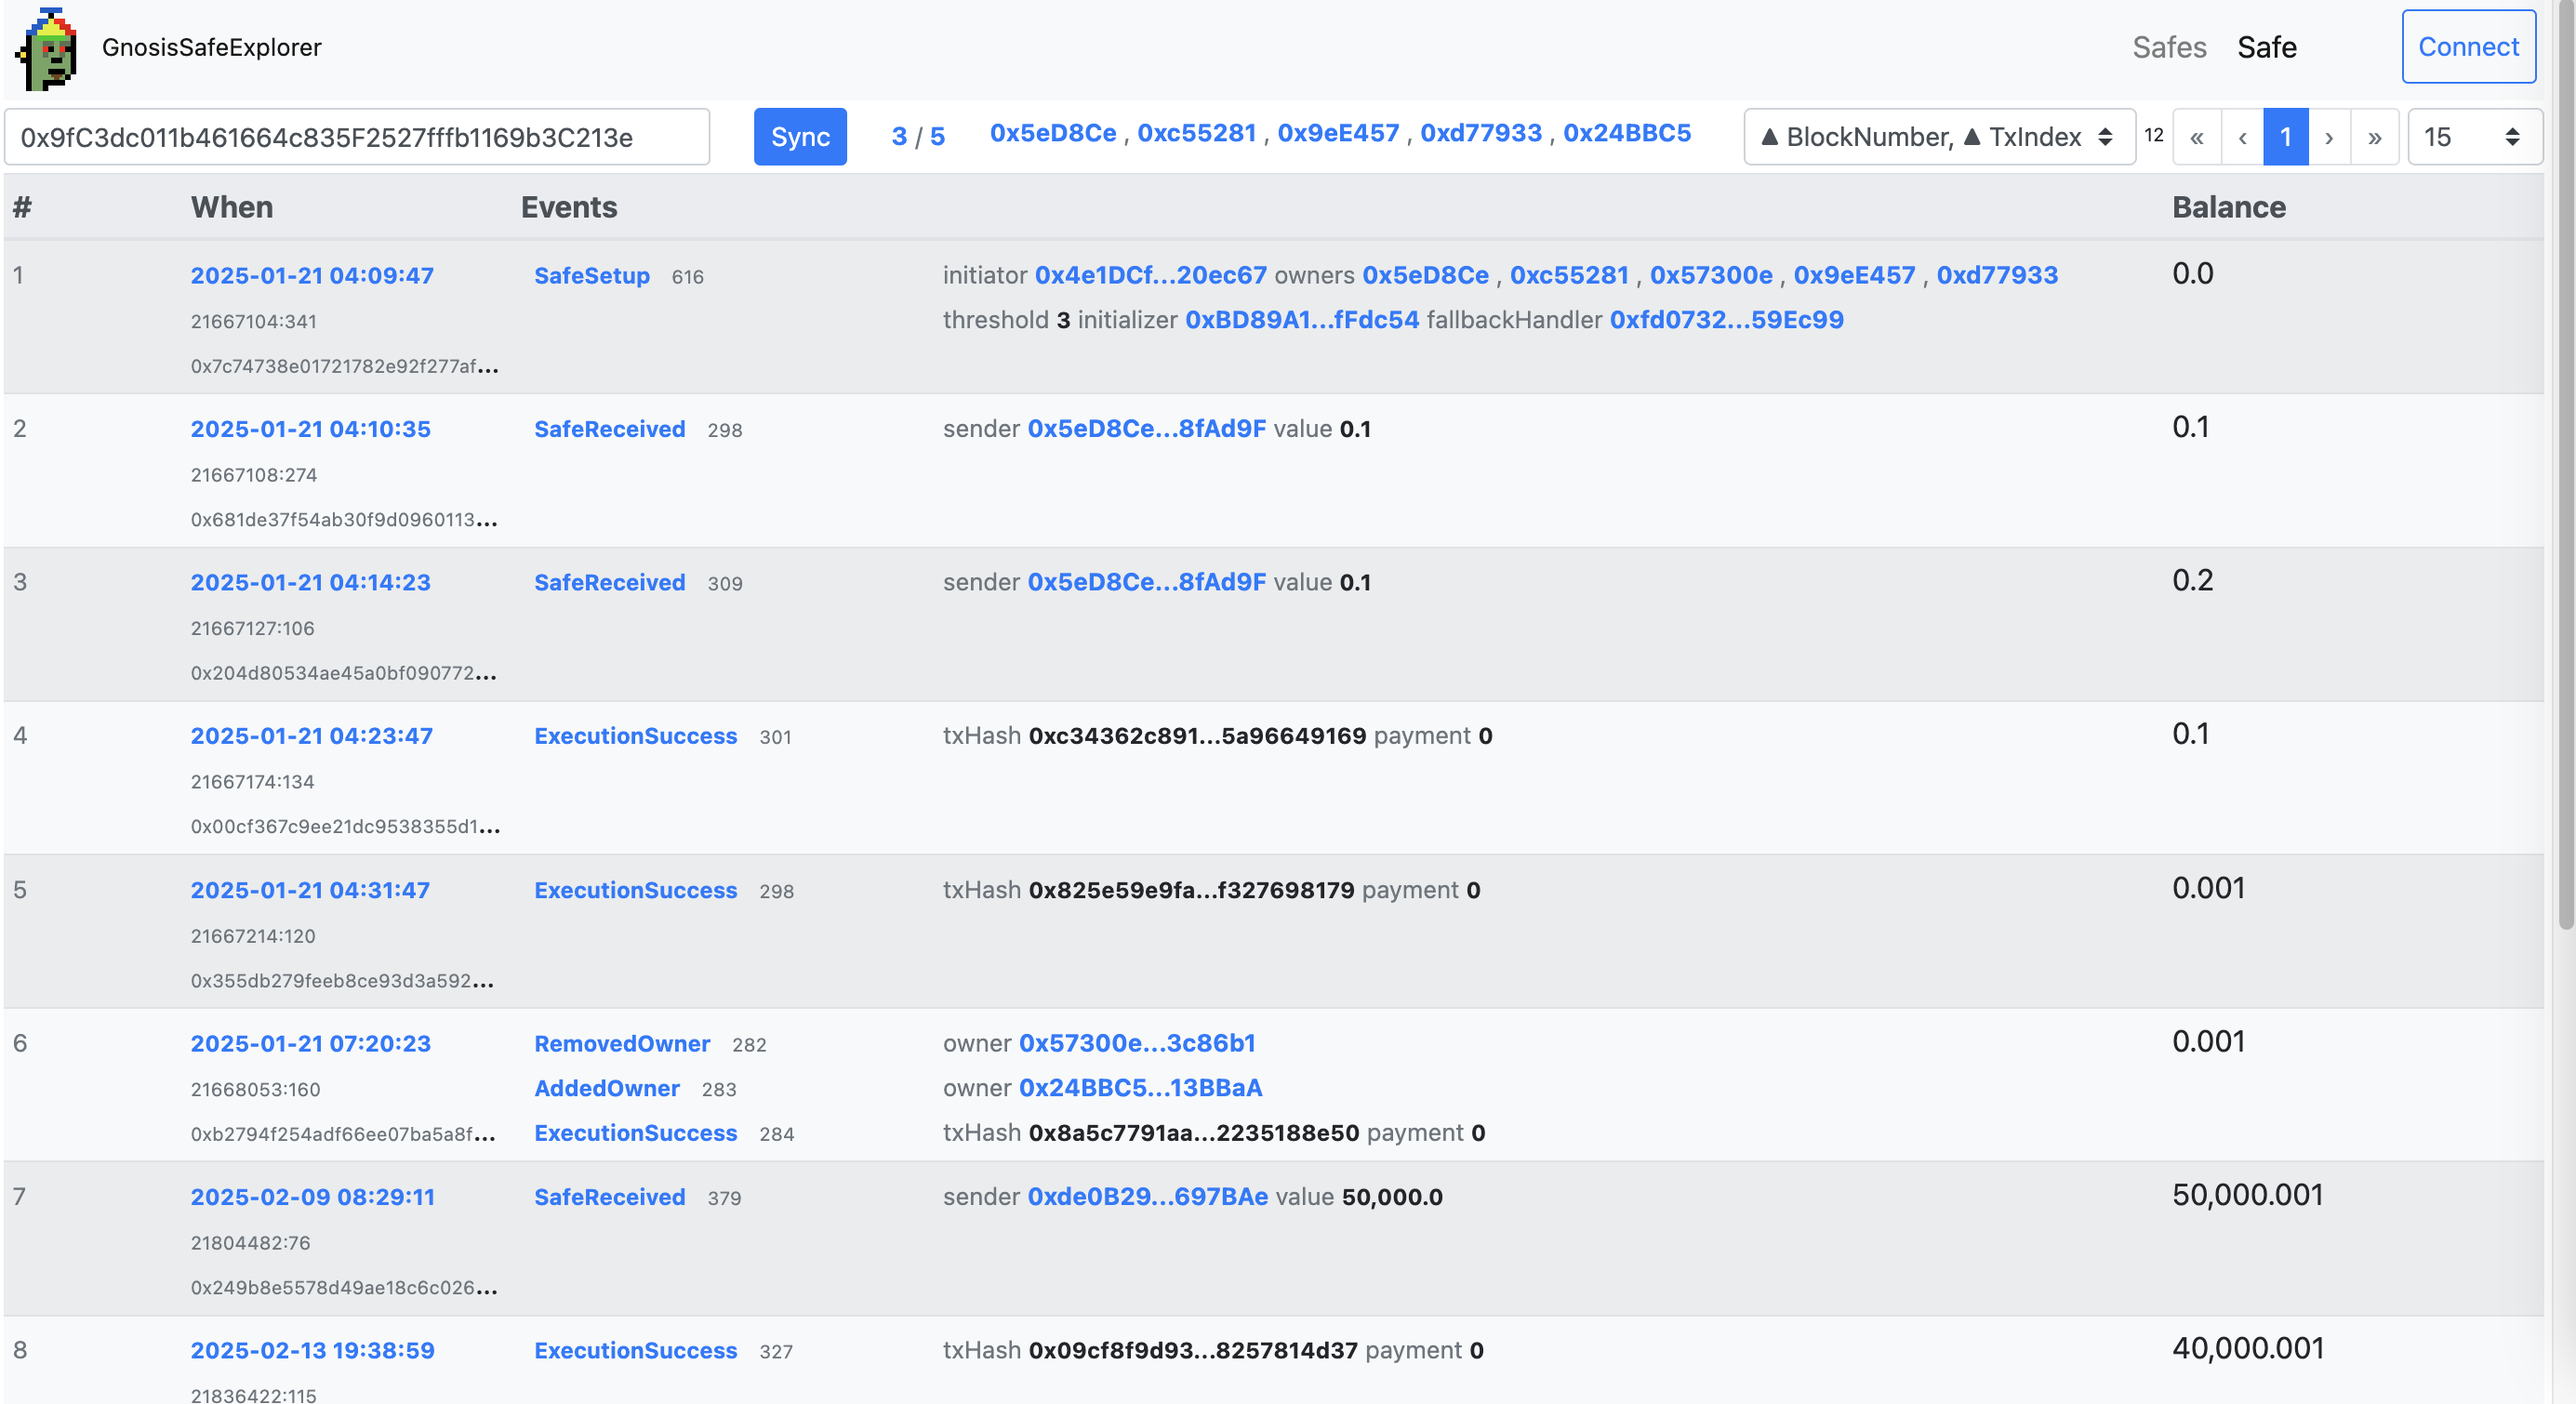
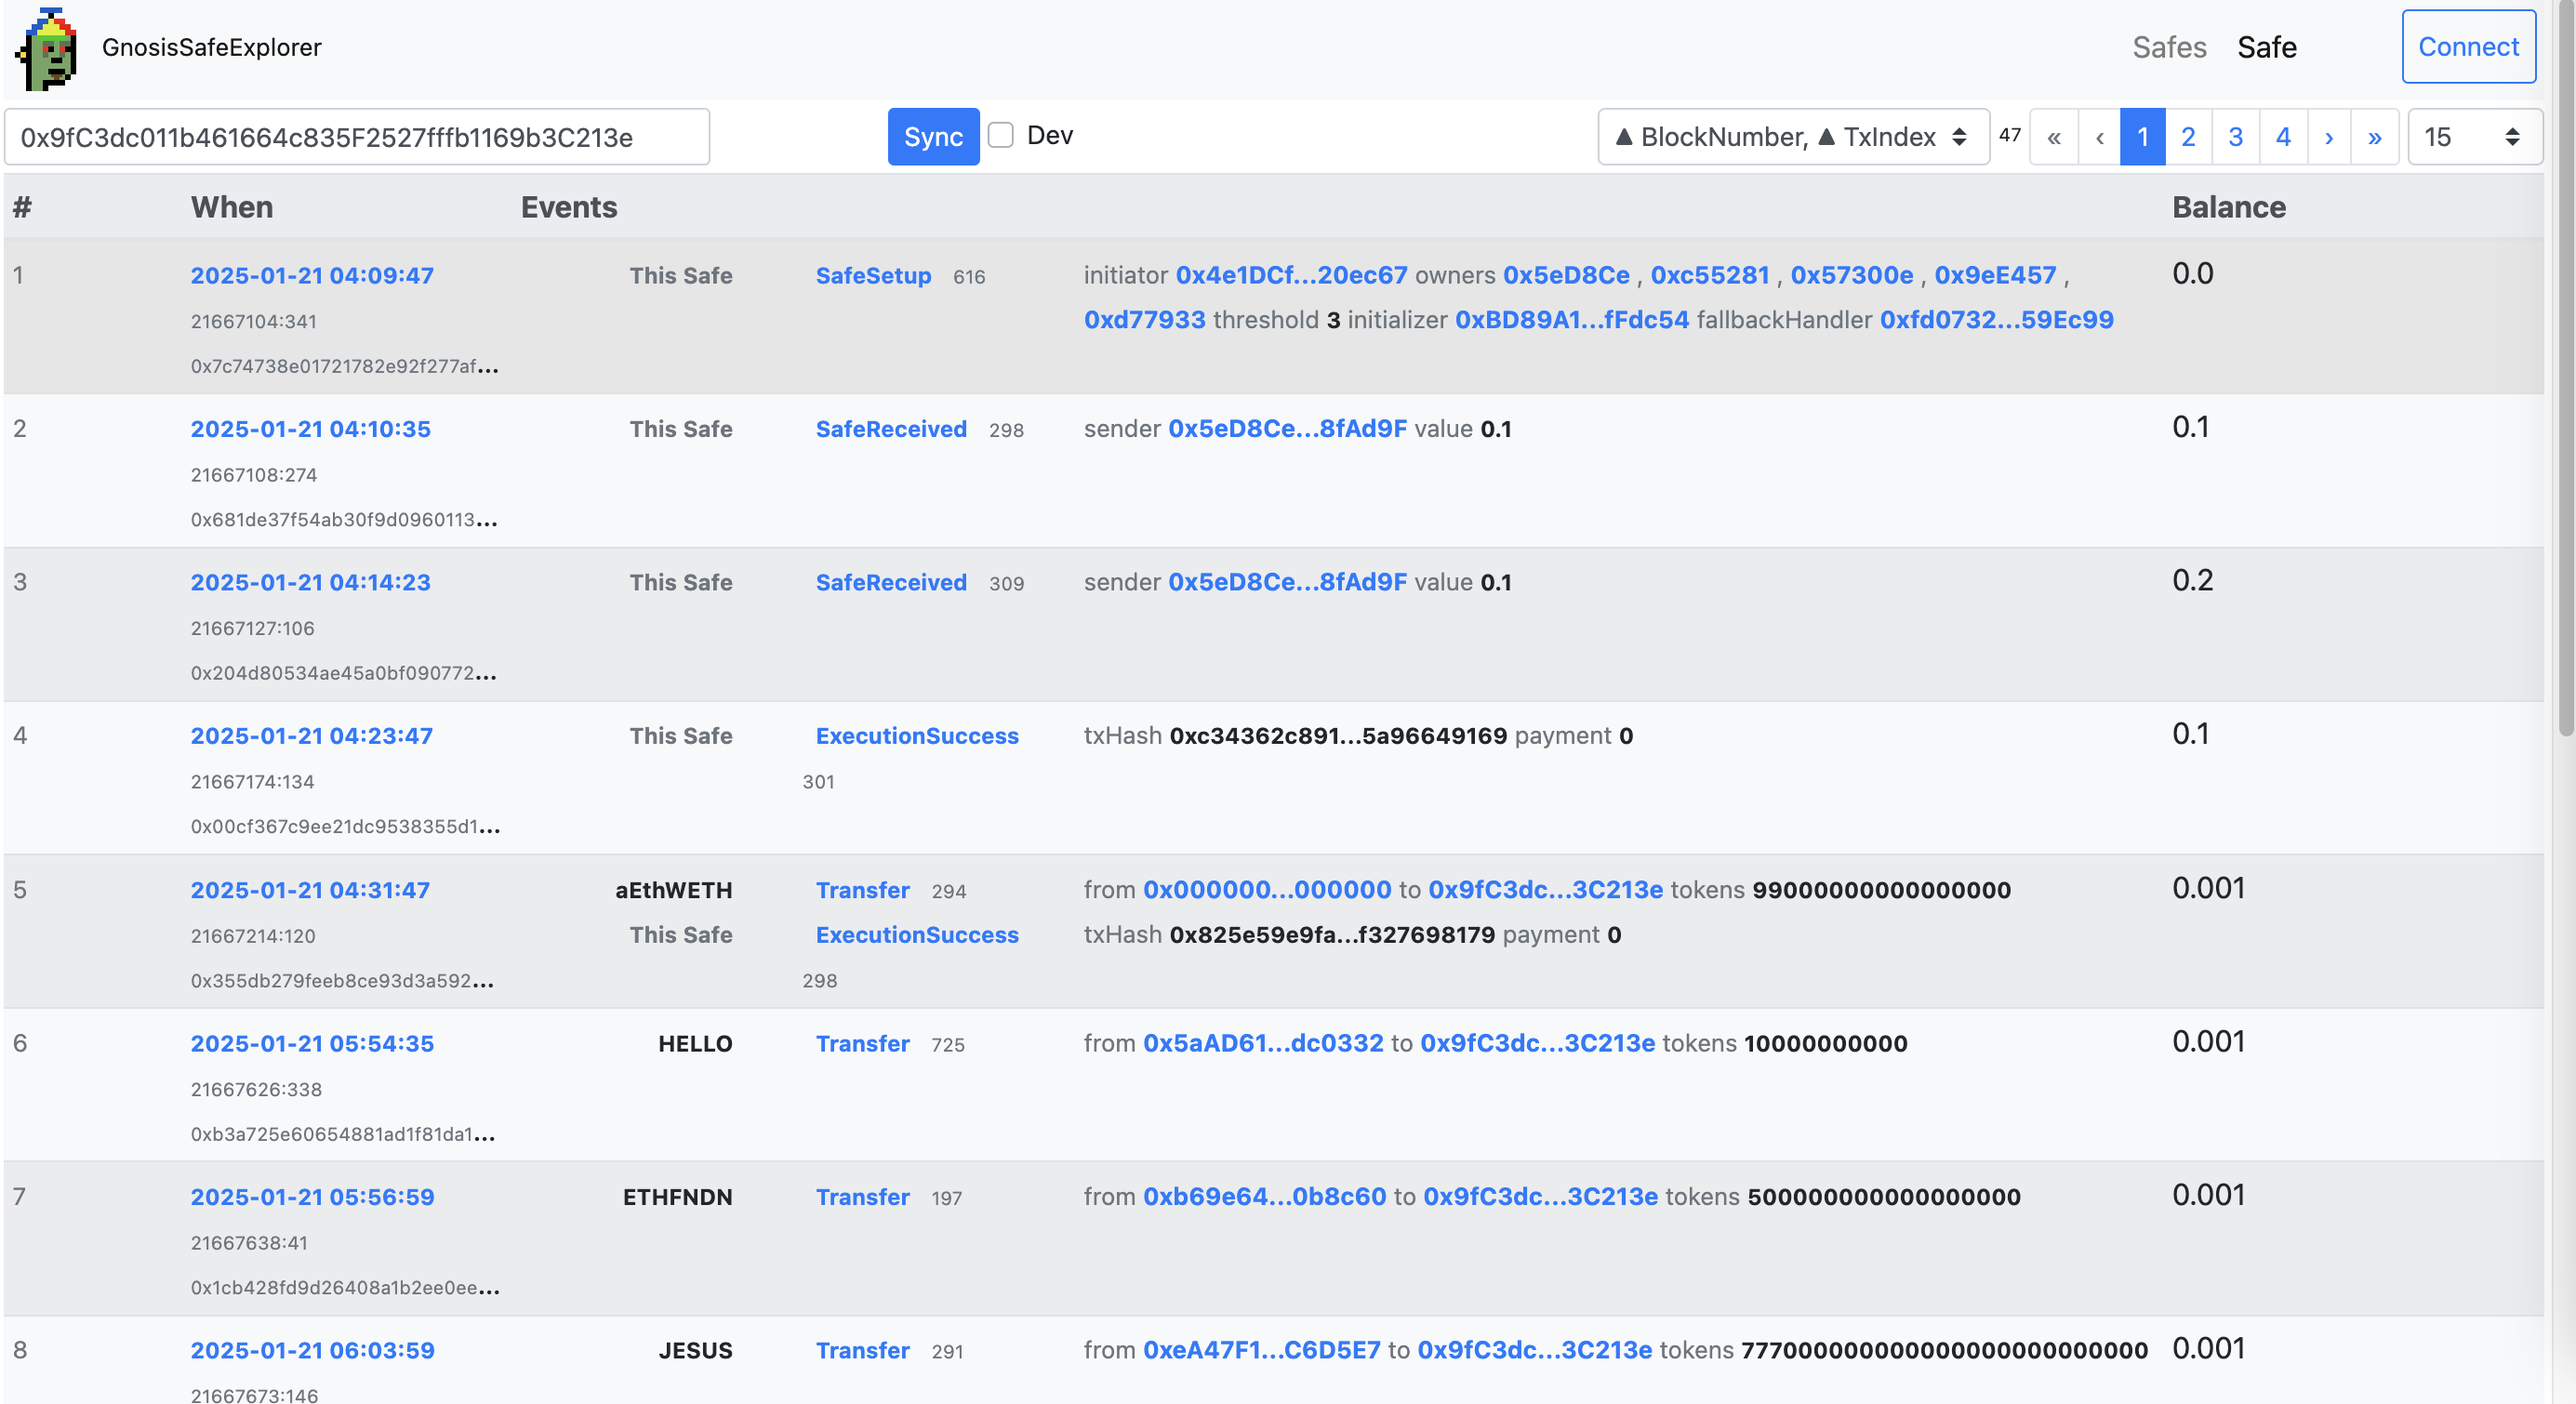
token events; screenshots

diff --git a/docs/index.html b/docs/index.html
@@ -406,7 +406,20 @@
               </template>
               <template #cell(events)="data">
                 <b-row v-for="(safeLog, index) of data.item.safeLogs" v-bind:key="index">
-                  <b-col cols="3">
+                  <b-col cols="2" class="text-right">
+                    <b-badge pill variant="transparent" v-b-popover.hover.bottom="safeLog.address">
+                      <div v-if="safeLog.address == settings.safe" class="text-muted">
+                          This Safe
+                      </div>
+                      <div v-else-if="safeData.tokens[safeLog.address]">
+                          {{ safeData.tokens[safeLog.address].name}}
+                      </div>
+                      <div v-else>
+                        {{ safeLog.address }}
+                      </div>
+                    </b-badge>
+                  </b-col>
+                  <b-col cols="2">
                     <b-link :href="'https://etherscan.io/tx/' + data.item.txHash + '#eventlog#' + safeLog.logIndex" target="_blank">
                       <b-badge pill variant="transparent" v-b-popover.hover.bottom="'View ' + safeLog.signature + ' in the explorer'">
                           {{ safeLog.name }}
@@ -414,7 +427,7 @@
                     </b-link>
                     <font size="-2" class="text-muted" v-b-popover.hover.bottom="'Log index'">{{ safeLog.logIndex }}</font>
                   </b-col>
-                  <b-col cols="9">
+                  <b-col cols="8">
                     <span v-for="(parameter, parameterIndex) of safeLog.parameters" v-bind:key="parameterIndex">
                       <font size="-1" class="text-muted">
                         {{ parameter.name }}
